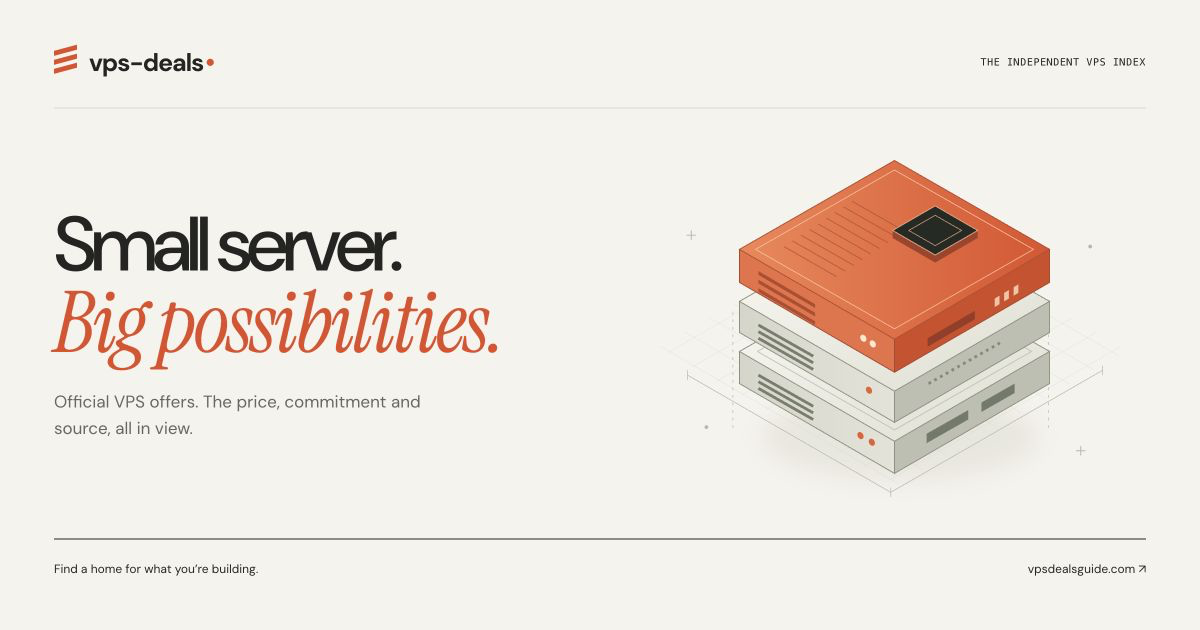
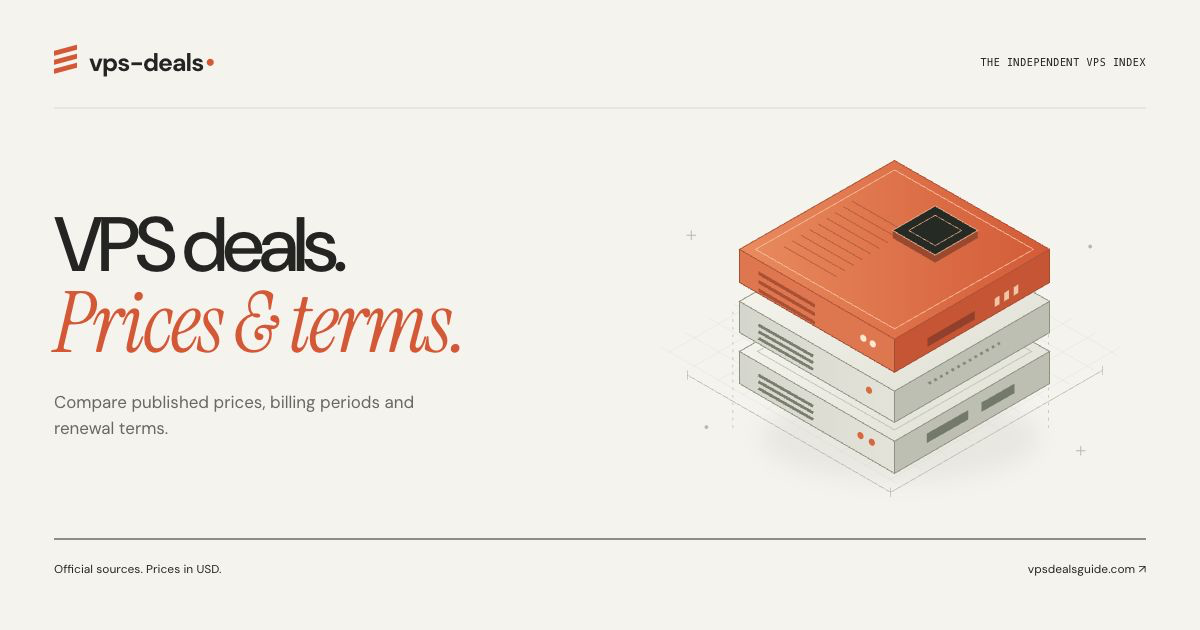
Replace abstract copy with clear VPS pricing and billing descriptions

diff --git a/templates/index.html b/templates/index.html
@@ -1,17 +1,17 @@
 <section class="hero">
-  <div class="hero-copy"><p class="eyebrow"><span class="signal"></span> THE INDEPENDENT VPS INDEX</p><h1>$headline<br><em>$headline_accent</em></h1><p class="hero-intro">$intro</p><div class="hero-actions"><a class="button" href="#offers">Explore the offers <span aria-hidden="true">↗</span></a><a class="quiet-link" href="/about/">How we check <span aria-hidden="true">→</span></a></div><div class="hero-footnote"><span class="little-cross" aria-hidden="true">✳</span> Your next project starts with a place to run.</div></div>
-  <div class="hero-art"><div class="art-topline mono"><span>INFRASTRUCTURE, UNPACKED</span><span>FIG. 001</span></div><div class="server-scene" data-server-scene>$server_art</div><div class="art-bottomline"><span class="mono">SMALL FOOTPRINT.<br>ROOM TO BUILD.</span><button class="layer-button" data-explode aria-pressed="false" hidden><span aria-hidden="true">⊞</span> <span data-explode-label>View layers</span></button></div></div>
+  <div class="hero-copy"><p class="eyebrow"><span class="signal"></span> VPS HOSTING / USD PRICES</p><h1>$headline<br><em>$headline_accent</em></h1><p class="hero-intro">$intro</p><div class="hero-actions"><a class="button" href="#offers">Browse VPS offers <span aria-hidden="true">↗</span></a><a class="quiet-link" href="/about/">How we check <span aria-hidden="true">→</span></a></div><div class="hero-footnote"><span class="little-cross" aria-hidden="true">✳</span> Confirm the total price and renewal terms at checkout.</div></div>
+  <div class="hero-art"><div class="art-topline mono"><span>VIRTUAL PRIVATE SERVER</span><span>ILLUSTRATION</span></div><div class="server-scene" data-server-scene>$server_art</div><div class="art-bottomline"><span class="mono">COMPUTE / MEMORY<br>STORAGE</span><button class="layer-button" data-explode aria-pressed="false" hidden><span aria-hidden="true">⊞</span> <span data-explode-label>View layers</span></button></div></div>
 </section>
-<section class="index-bar" aria-label="Index coverage"><div><strong>$offer_count</strong><span>current offers</span></div><div><strong>$provider_count</strong><span>official sources</span></div><div class="index-note"><span class="signal"></span><span>Scheduled every 6 hours<br><small>Last check: $checked_at</small></span></div><a href="/about/">Every price has a source <span aria-hidden="true">↗</span></a></section>
+<section class="index-bar" aria-label="Index coverage"><div><strong>$offer_count</strong><span>current offers</span></div><div><strong>$provider_count</strong><span>official sources</span></div><div class="index-note"><span class="signal"></span><span>Scheduled every 6 hours<br><small>Last check: $checked_at</small></span></div><a href="/about/">View pricing sources <span aria-hidden="true">↗</span></a></section>
 <section class="catalog" id="offers" data-catalog>
-  <div class="section-heading"><div><p class="eyebrow">01 / THE SHORTLIST</p><h2>Find your next <em>starting point.</em></h2></div><a class="quiet-link" href="/compare/">Open comparison table ↗</a></div>
+  <div class="section-heading"><div><p class="eyebrow">01 / PRICES</p><h2>Current <em>VPS offers.</em></h2></div><a class="quiet-link" href="/compare/">Compare all plans ↗</a></div>
   $notice
   <div data-controls hidden><div class="catalog-toolbar"><div class="filter-tabs" aria-label="Offer type"><button data-kind="all" aria-pressed="true">All offers</button><button data-kind="promotion" aria-pressed="false">Promotions</button><button data-kind="standard_price" aria-pressed="false">Standard prices</button></div><label class="search-box"><span class="sr-only">Search offers</span><svg aria-hidden="true" viewBox="0 0 20 20"><circle cx="8" cy="8" r="5.5"/><path d="m12 12 5 5"/></svg><input data-search type="search" placeholder="Search a plan or provider…" autocomplete="off"></label></div>
   <div class="catalog-filters"><label>Provider <select data-provider><option value="all">All providers</option>$provider_options</select></label><label>Billing <select data-billing><option value="all">All billing periods</option><option value="monthly">Monthly rates</option><option value="annual">Annual totals</option><option value="other">Other / not stated</option></select></label><label class="sort-label">Sort <select data-sort><option value="default">Index order</option><option value="price-asc">Price: low to high</option><option value="price-desc">Price: high to low</option></select></label></div></div>
-  <div class="catalog-caption"><p data-count role="status" aria-live="polite">$offer_count offers in the index</p><span>USD · Original billing periods · Price sorting stays within each period</span></div>
+  <div class="catalog-caption"><p data-count role="status" aria-live="polite">$offer_count current offers</p><span>USD · Original billing periods · Price sorting stays within each period</span></div>
   <div class="offer-grid" data-offer-grid>$cards</div>
-  <div class="empty" data-empty hidden><span class="mono">NO MATCHES</span><h3>A different filter might fit.</h3><p>Try another provider, billing period or search term.</p><button class="button" data-reset>Reset filters ↗</button></div>
+  <div class="empty" data-empty hidden><span class="mono">NO MATCHES</span><h3>No plans match these filters.</h3><p>Try another provider, billing period or search term.</p><button class="button" data-reset>Reset filters ↗</button></div>
   <div class="catalog-note"><span aria-hidden="true">↳</span><p>Monthly rates may require a prepaid term. Annual prices are yearly totals. Check the initial payment, renewal and tax before you buy.</p></div>
 </section>
-<section class="method-strip"><div><p class="eyebrow">LESS GUESSWORK. MORE CONTEXT.</p><h2>A price tag is only<br><em>half the story.</em></h2><a class="button button-outline" href="/about/">Inside our method ↗</a></div><div class="method-list"><article><span>01</span><div><h3>Go straight to the source.</h3><p>Listings come from official provider pages. Follow the source link on any plan to check it yourself.</p></div></article><article><span>02</span><div><h3>Keep the commitment visible.</h3><p>See the published billing period and any renewal terms we could extract, right beside the price.</p></div></article><article><span>03</span><div><h3>Give every observation a date.</h3><p>Failed checks and stale prices leave the current index. Each listing shows when its source was last checked.</p></div></article></div></section>
-<section class="provider-section"><div class="section-heading"><div><p class="eyebrow">02 / AT THE SOURCE</p><h2>The providers <em>on our radar.</em></h2></div><span class="mono">$provider_count OFFICIAL SOURCES</span></div><div class="providers">$providers</div></section>
+<section class="method-strip"><div><p class="eyebrow">BILLING AND RENEWALS</p><h2>Before <em>you buy.</em></h2><a class="button button-outline" href="/about/">How prices are checked ↗</a></div><div class="method-list"><article><span>01</span><div><h3>Check the billing period.</h3><p>A monthly rate may require a longer prepaid term. An annual price is the total for one year.</p></div></article><article><span>02</span><div><h3>Read the renewal terms.</h3><p>Introductory and renewal prices can differ. We include renewal terms when they are available in the source.</p></div></article><article><span>03</span><div><h3>Check the date and source.</h3><p>Prices can change after a check. Use the timestamp on the listing and follow the official link before ordering.</p></div></article></div></section>
+<section class="provider-section"><div class="section-heading"><div><p class="eyebrow">02 / PROVIDERS</p><h2>Browse by <em>provider.</em></h2></div><span class="mono">$provider_count OFFICIAL SOURCES</span></div><div class="providers">$providers</div></section>

diff --git a/templates/deal.html b/templates/deal.html
@@ -1,2 +1,2 @@
 $breadcrumbs
-<div class="deal-layout"><header class="deal-heading"><p class="eyebrow">$provider_name / $kind</p><h1>$offer_title<span class="accent">.</span></h1><p class="lead deal-description">$details</p></header><article class="deal-body"><section class="deal-facts"><div class="section-heading compact"><h2>The <em>particulars.</em></h2><span class="mono">01 / PLAN NOTES</span></div><dl>$facts</dl></section><section class="source-note"><p class="eyebrow">02 / THE PAPER TRAIL</p><h2>Right from <em>the source.</em></h2><details><summary>Read the recorded source excerpt <span aria-hidden="true">+</span></summary><blockquote>$evidence</blockquote></details><a class="quiet-link" href="$source_url" rel="noopener noreferrer">Open the official page ↗</a><p class="meta">Last checked $fetched_at</p></section></article><aside class="price-panel"><div class="price-panel-top"><span class="mono">OBSERVED PRICE</span><span aria-hidden="true">↗</span></div><div class="price large">$price</div><p class="panel-billing">USD · $billing</p><p class="status $status">$status_label</p>$cta<div class="price-terms"><span class="mono">THE COMMITMENT</span><p>$terms</p></div><p class="fine-print">The provider confirms final pricing, location, renewal and tax at checkout.</p><a class="quiet-link" href="/compare/">Compare with other plans →</a></aside></div>
+<div class="deal-layout"><header class="deal-heading"><p class="eyebrow">$provider_name / $kind</p><h1>$provider_name $offer_title</h1><p class="lead deal-description">$details</p></header><article class="deal-body"><section class="deal-facts"><div class="section-heading compact"><h2>Plan <em>details.</em></h2><span class="mono">01 / PLAN NOTES</span></div><dl>$facts</dl></section><section class="source-note"><p class="eyebrow">02 / SOURCE</p><h2>Source <em>record.</em></h2><details><summary>Read the source excerpt <span aria-hidden="true">+</span></summary><blockquote>$evidence</blockquote></details><a class="quiet-link" href="$source_url" rel="noopener noreferrer">Open the official page ↗</a><p class="meta">Last checked $fetched_at</p></section></article><aside class="price-panel"><div class="price-panel-top"><span class="mono">OBSERVED PRICE</span><span aria-hidden="true">↗</span></div><div class="price large">$price</div><p class="panel-billing">USD · $billing</p><p class="status $status">$status_label</p>$cta<div class="price-terms"><span class="mono">BILLING TERMS</span><p>$terms</p></div><p class="fine-print">The provider confirms final pricing, location, renewal and tax at checkout.</p><a class="quiet-link" href="/compare/">Compare with other plans →</a></aside></div>

diff --git a/templates/base.html b/templates/base.html
@@ -17,10 +17,10 @@
   <a class="skip" href="#main">Skip to content</a>
   <header class="header"><div class="header-inner">
     <a class="brand" href="/" aria-label="$brand home"><span class="brand-mark" aria-hidden="true"><i></i><i></i><i></i></span>$brand<span class="brand-dot">•</span></a>
-    <nav aria-label="Main navigation"><a data-nav href="/">The index</a><a data-nav href="/compare/">Compare</a><a data-nav href="/about/">Our method</a></nav>
-    <a class="nav-cta" href="/#offers">Find your server <span aria-hidden="true">↗</span></a>
+    <nav aria-label="Main navigation"><a data-nav href="/">VPS deals</a><a data-nav href="/compare/">Compare plans</a><a data-nav href="/about/">Sources</a></nav>
+    <a class="nav-cta" href="/#offers">Browse plans <span aria-hidden="true">↗</span></a>
   </div></header>
   <main id="main">$content</main>
-  <footer class="footer"><div class="footer-top"><div><a class="brand" href="/">$brand<span class="brand-dot">•</span></a><p>A little infrastructure.<br>A lot of potential.</p></div><div class="footer-links"><a href="/compare/">Compare plans ↗</a><a href="/about/">Sources &amp; disclosure ↗</a><a href="$repository">Open repository ↗</a><a href="/data/offers.json">Download data ↗</a></div></div><div class="footer-bottom"><p>$disclosure</p><span class="mono">INDEPENDENT VPS PRICE INDEX<br>ENGLISH / USD</span></div></footer>
+  <footer class="footer"><div class="footer-top"><div><a class="brand" href="/">$brand<span class="brand-dot">•</span></a><p>Official VPS prices.<br>Billing terms and source links.</p></div><div class="footer-links"><a href="/compare/">Compare plans ↗</a><a href="/about/">Sources &amp; disclosure ↗</a><a href="$repository">Open repository ↗</a><a href="/data/offers.json">Download data ↗</a></div></div><div class="footer-bottom"><p>$disclosure</p><span class="mono">INDEPENDENT VPS PRICE INDEX<br>ENGLISH / USD</span></div></footer>
 </body>
 </html>

diff --git a/templates/compare.html b/templates/compare.html
@@ -1,3 +1,3 @@
 $breadcrumbs
-<section class="page-heading"><p class="eyebrow">SIDE BY SIDE / THE COMPLETE INDEX</p><h1>Every detail.<br><em>In perspective.</em></h1><div class="heading-bottom"><p class="lead">Read the price alongside the commitment. Annual totals and monthly rates keep their original billing periods.</p><a class="quiet-link" href="/#offers">Back to all offers ↗</a></div></section>
-<div class="comparison" role="region" aria-label="VPS offers comparison" tabindex="0"><table><caption>Official published prices in USD. Scroll horizontally on smaller screens to see every column.</caption><thead><tr><th scope="col">Provider / Plan</th><th scope="col">Price (USD)</th><th scope="col">Billing &amp; commitment</th><th scope="col">Observed at</th><th scope="col">Source status</th></tr></thead><tbody>$rows</tbody></table></div>
+<section class="page-heading"><p class="eyebrow">VPS PRICE COMPARISON</p><h1>Compare<br><em>VPS prices.</em></h1><div class="heading-bottom"><p class="lead">Compare published prices and billing terms. Monthly rates may require prepayment; annual prices are yearly totals.</p><a class="quiet-link" href="/#offers">Back to all offers ↗</a></div></section>
+<div class="comparison" role="region" aria-label="VPS offers comparison" tabindex="0"><table><caption>Official published prices in USD. Scroll horizontally on smaller screens to see every column.</caption><thead><tr><th scope="col">Provider / Plan</th><th scope="col">Price (USD)</th><th scope="col">Billing &amp; renewal</th><th scope="col">Observed at</th><th scope="col">Source status</th></tr></thead><tbody>$rows</tbody></table></div>

diff --git a/templates/provider.html b/templates/provider.html
@@ -1,6 +1,6 @@
 $breadcrumbs
-<section class="page-heading"><p class="eyebrow">PROVIDER PROFILE / OFFICIAL SOURCE</p><h1>$provider_name<span class="accent">.</span></h1><div class="heading-bottom"><p class="lead">$summary</p><a class="button button-outline" href="$source_url" rel="noopener noreferrer">Visit official source ↗</a></div></section>
+<section class="page-heading"><p class="eyebrow">VPS HOSTING PROVIDER</p><h1>$provider_name<br><em>VPS plans.</em></h1><div class="heading-bottom"><p class="lead">$summary</p><a class="button button-outline" href="$source_url" rel="noopener noreferrer">Visit official source ↗</a></div></section>
 $notice
-<div class="section-heading compact"><h2>In the <em>index.</em></h2><span class="mono">ORIGINAL PRICES / USD</span></div>
+<div class="section-heading compact"><h2>Available <em>listings.</em></h2><span class="mono">ORIGINAL PRICES / USD</span></div>
 <div class="offer-grid">$cards</div>
-<div class="catalog-note"><span aria-hidden="true">↳</span><p>Choose a plan to see the full observation, billing terms and official link. <a href="/compare/">Compare across providers →</a></p></div>
+<div class="catalog-note"><span aria-hidden="true">↳</span><p>Open a plan for its price, billing terms and official source. <a href="/compare/">Compare across providers →</a></p></div>

diff --git a/build.py b/build.py
@@ -216,7 +216,7 @@ def build(config: dict, data: dict, output: Path, now: datetime | None = None) -
     tiles = "".join(f'<a class="provider-tile" href="/providers/{e(p["id"])}/"><span><strong>{e(p["name"])}</strong><span class="meta">{sum(o["provider_id"] == p["id"] for o in current)} current listings</span></span><span aria-hidden="true">↗</span></a>' for p in config["providers"])
     provider_options = ''.join(f'<option value="{e(p["id"])}">{e(p["name"])}</option>' for p in config['providers'])
     content = templates["index"].substitute(headline=e(config["render"]["headline"]), headline_accent=e(config["render"].get("headline_accent", "")), intro=e(config["render"]["intro"]), offer_count=len(current), provider_count=len(provider_map), checked_at=e(display_time(data["checked_at"])), notice=notice, cards="".join(card(o) for o in current) or empty, providers=tiles, provider_options=provider_options, server_art=(ROOT / 'templates/server.svg').read_text())
-    render_page("/", f"VPS offers & transparent billing — {month} | {site['brand']}", f"Compare {len(current)} official VPS offers from {len(provider_map)} providers. Source links, published billing terms, and last-checked dates for {month}.", content, [list_schema(current, origin)], data["checked_at"])
+    render_page("/", f"VPS Deals & Hosting Prices — {month} | {site['brand']}", f"Compare {len(current)} official VPS offers from {len(provider_map)} providers. Source links, published billing terms, and last-checked dates for {month}.", content, [list_schema(current, origin)], data["checked_at"])
 
     for provider in config["providers"]:
         provider_offers = [o for o in current if o["provider_id"] == provider["id"]]
@@ -246,7 +246,8 @@ def build(config: dict, data: dict, output: Path, now: datetime | None = None) -
         if status == "observed" and "price" in offer:
             schemas.append({"@type": "Product", "name": provider["name"] + " " + offer["title"], "description": offer.get("details") or offer["title"], "brand": {"@type": "Brand", "name": provider["name"]}, "url": origin + path, "offers": aggregate_schema([offer])})
         discount = " · " + offer["discount_text"] if offer.get("discount_text") else ""
-        render_page(path, f"{provider['name']} {offer['title']} — {price_text(offer)}{discount} | {month}", f"{provider['name']} {offer['title']}: {price_text(offer)}{discount}. {billing_text(offer)}. Official source, terms and verification date.", content, schemas, offer["fetched_at"], indexable=status == "observed")
+        price_prefix = "From " if "price" in offer and "starting price" in offer.get("terms", "").lower() else ""
+        render_page(path, f"{provider['name']} {offer['title']} — {price_prefix}{price_text(offer)} {offer.get('billing_period', '')}{discount} | {month}", f"{provider['name']} {offer['title']}: {price_prefix}{price_text(offer)}{discount}. {billing_text(offer)}. Official source, terms and verification date.", content, schemas, offer["fetched_at"], indexable=status == "observed")
 
     compare_items = [("Offers", "/"), ("Compare", "/compare/")]
     rows = "".join(f'<tr><td><a class="provider-link" href="/providers/{e(o["provider_id"])}/">{e(provider_map[o["provider_id"]]["name"])}</a><a href="/deals/{o["id"]}/">{e(o["title"])}</a></td><td class="price-cell">{e(price_text(o))}</td><td>{e(billing_text(o))}<p class="fine-print">{e(o.get("terms", ""))}</p></td><td>{e(display_time(o["fetched_at"]))}</td><td><span class="status observed">Source checked</span></td></tr>' for o in current)
@@ -254,7 +255,7 @@ def build(config: dict, data: dict, output: Path, now: datetime | None = None) -
     render_page("/compare/", f"Compare VPS prices & billing — {month} | {site['brand']}", "Compare official VPS offers with their original billing period, verification date and source. No estimated discounts or invented coupon codes.", content, [list_schema(current, origin), breadcrumb_schema(compare_items, origin)], data["checked_at"])
 
     source_links = "".join(f'<li><a href="{e(p["source_url"])}">{e(p["name"])} official source</a></li>' for p in config["providers"])
-    about = f'''<article class="prose"><p class="eyebrow">THE METHOD / SOURCES &amp; DISCLOSURE</p><h1>A clear view of<br><em>the commitment.</em></h1><p>Choosing a server starts with a few practical questions: what does it cost, how long are you paying for, and where did that number come from? This index puts those answers beside the plan.</p><h2>01 / Follow the evidence</h2><p>We read public pricing pages from the providers listed below. Each observation includes its official source, capture time and the exact price text. Checks are scheduled every six hours; schedules can run late or stop. The date on each listing tells you when we last read it.</p><ul>{source_links}</ul><h2>02 / Read the whole commitment</h2><p>All prices are published USD amounts. An annual price is a yearly total; a monthly rate may be the equivalent of a longer prepaid commitment. We retain available renewal text and provider conditions. Missing tax, eligibility, stock or expiry information stays unspecified. The provider confirms the final payment at checkout.</p><p>A source check records what was on a page. It does not measure server performance, test a purchase or reserve availability. Promotions and ordinary starting prices are labelled separately.</p><h2>03 / Retire uncertain observations</h2><p>At each build, failed-source listings, known expired offers and observations older than {config['runtime']['stale_after_hours']} hours leave the current index. Their detail pages show the changed status. If updates stop, check the observation date and follow the official source before relying on a price.</p><h2>Links &amp; commissions</h2><p>{e(disclosure)}</p><h2>Your visit</h2><p>Search and filtering work in your browser. This site adds no analytics or cookies. When you follow a provider link, that website applies its own privacy policy and terms.</p><h2>Check our work</h2><p><a href="/data/offers.json">Download the recorded observations</a> to inspect the source evidence, or <a href="{e(config['render']['repository'])}">open the repository</a> to report a correction. Every listing is traceable to a public provider page.</p></article>'''
+    about = f'''<article class="prose"><p class="eyebrow">SOURCES &amp; DISCLOSURE</p><h1>Sources and<br><em>price checks.</em></h1><p>This site compares prices from official VPS providers. Each listing includes the published amount, billing period, source link and time of the last check.</p><h2>Where prices come from</h2><p>We read public pricing pages from the providers listed below. Each observation includes its official source, capture time and the exact price text. Checks are scheduled every six hours; schedules can run late or stop. The date on each listing tells you when we last read it.</p><ul>{source_links}</ul><h2>How to read a price</h2><p>All prices are published USD amounts. An annual price is a yearly total; a monthly rate may be the equivalent of a longer prepaid commitment. We retain available renewal text and provider conditions. Missing tax, eligibility, stock or expiry information stays unspecified. The provider confirms the final payment at checkout.</p><p>A source check records what was on a page. It does not measure server performance, test a purchase or reserve availability. Promotions and ordinary starting prices are labelled separately.</p><h2>Failed checks and expired offers</h2><p>At each build, failed-source listings, known expired offers and observations older than {config['runtime']['stale_after_hours']} hours leave the current index. Their detail pages show the changed status. If updates stop, check the observation date and follow the official source before relying on a price.</p><h2>Links &amp; commissions</h2><p>{e(disclosure)}</p><h2>Privacy</h2><p>Search and filtering run in your browser. Cloudflare hosts this site and processes web requests. Provider websites apply their own privacy policies and terms.</p><h2>Data and corrections</h2><p><a href="/data/offers.json">Download the recorded observations</a> to inspect the source evidence, or <a href="{e(config['render']['repository'])}">open the repository</a> to report a correction. Every listing is traceable to a public provider page.</p></article>'''
     render_page("/about/", f"Sources, checks & affiliate disclosure | {site['brand']}", "How we collect official VPS prices, handle failed checks and expired offers, and disclose affiliate links.", about, [], data["checked_at"])
 
     public_data = {**data, "providers": [p for p in data.get("providers", []) if p["id"] in provider_map], "offers": [{**o, "display_status": observed_status(o, config, now)} for o in offers]}

diff --git a/README.md b/README.md
@@ -8,6 +8,16 @@ Live site: [vpsdealsguide.com](https://vpsdealsguide.com/) · [Pages hostname](h
 
 Defaults: VPS hosting, `vps-deals`, `en-US`, USD. The provider list and extraction rules live in [.ilang/site.ilang](.ilang/site.ilang).
 
+## Copy cleanup and SEO audit — 2026-11-07
+
+Replaced abstract headlines, slogans and section labels with VPS pricing, billing and source descriptions. Home, provider, comparison and individual plan headings now identify their contents directly. Plan title tags include the original billing period; starting-price records are labelled “From”. The social card uses the same plain wording. Product schema, URL structure, pricing data and source failure rules are unchanged.
+
+Read-only audit: all 19 canonical pages returned HTTP 200 with indexable metadata, unique title/description/H1, source-consistent JSON-LD and valid internal links. robots.txt and the 19-URL sitemap were accessible; unknown routes returned real 404. HTTP and path normalization redirects worked. The Pages hostname still serves 200 with the custom-domain canonical; www does not resolve.
+
+Google [PageSpeed mobile report](https://pagespeed.web.dev/analysis/https-vpsdealsguide-com/e0p331g59s?form_factor=mobile), captured 2026-11-07 01:20 Asia/Shanghai before the copy-only release: performance 98, accessibility 100, best practices 92, SEO 100; LCP 1.5 s, TBT 0 ms, CLS 0. This is a homepage lab test. CrUX field data is unavailable; the current Search Console account lacks access to this site's property, so actual indexing, selected canonicals, traffic and ranking remain unverified. Lighthouse identified a Cloudflare Insights script blocked by the existing same-origin CSP. No CSP relaxation or analytics setting change was made.
+
+Open recommendations, not automatically implemented by this audit: separate temporary source failure from detail-page indexing; use substantive content modification times for sitemap lastmod; expose OVH hardware specifications already present in official evidence; consolidate the Pages hostname with a path-preserving redirect. Decide whether to disable the injected Cloudflare Insights script or configure analytics consistently. Optional www support is an entry-point choice, not a blocker for the canonical apex. Full private audit evidence is in ignored `evidence/seo-audit/`.
+
 ## Current design release — 2026-11-07
 
 The site now uses an original editorial design: warm paper, ink typography, orange accents, an interactive SVG server illustration, and locally hosted DM Sans / Instrument Serif fonts (licenses in `assets/`). Home, provider, plan, comparison and methodology pages share the same responsive system. The 1200 × 630 social image is a static rendering of this artwork.
